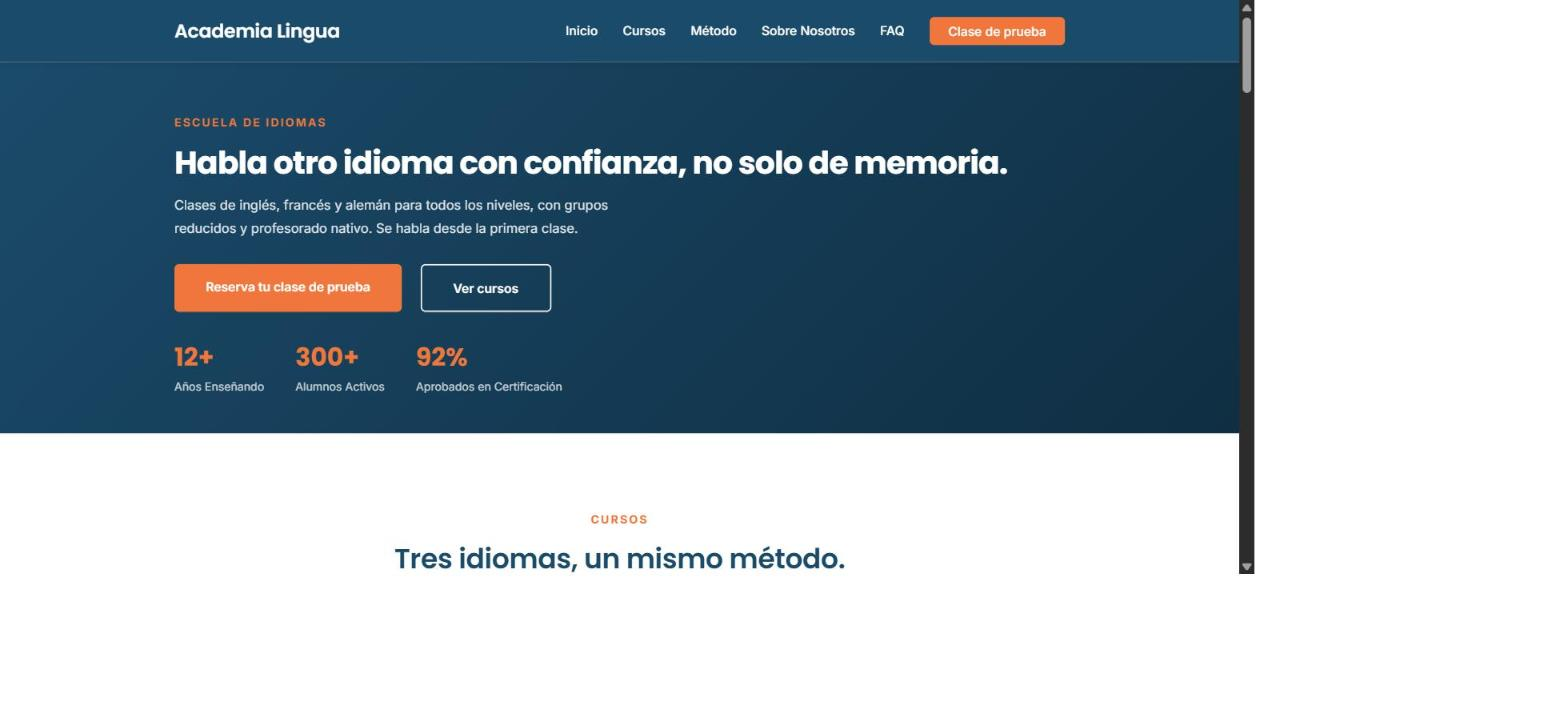
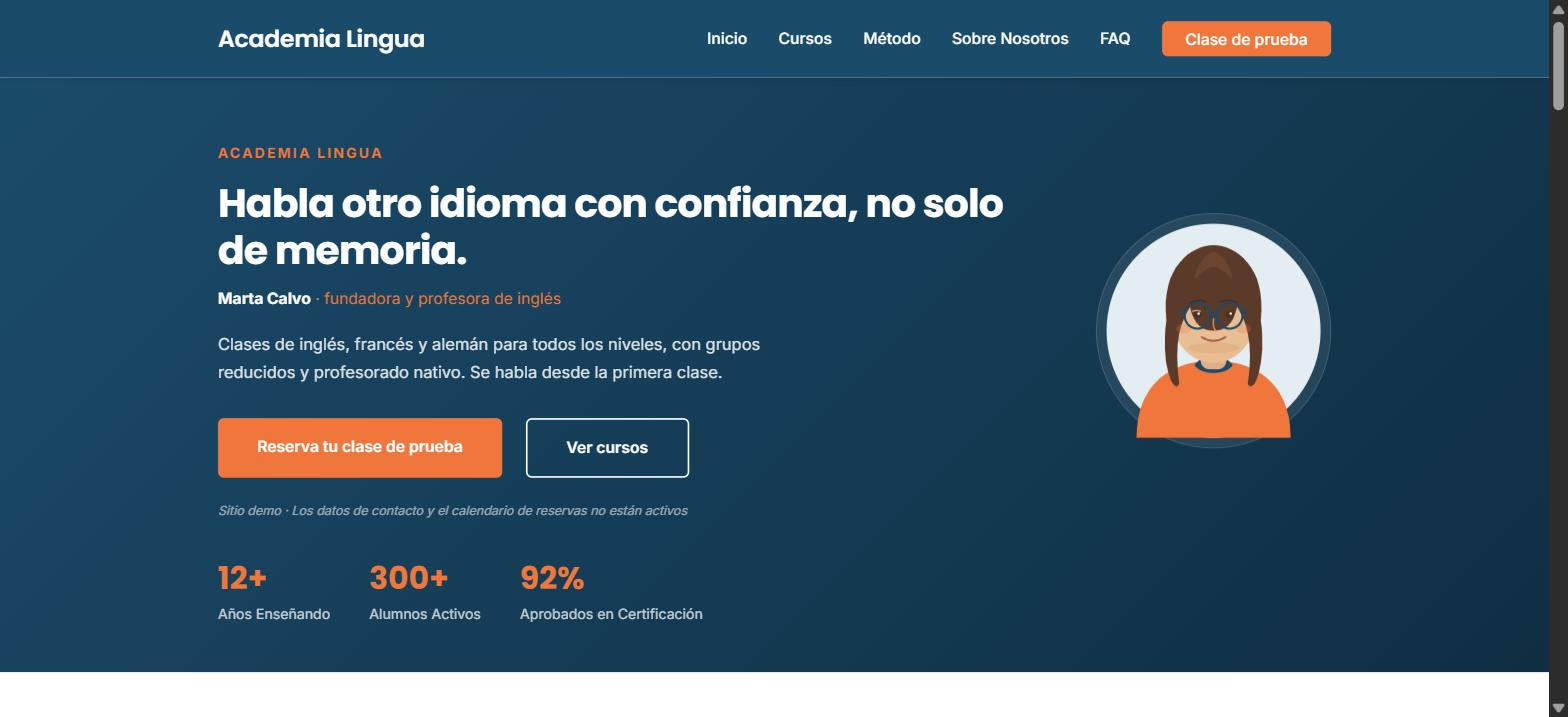
Actualizar miniaturas de Academia Lingua tras el rediseño
La demo ahora tiene una fundadora con nombre y cara (avatar
ilustrado), así que las capturas del portfolio se actualizan para
reflejar el hero y el "Sobre nosotros" rediseñados.

diff --git a/src/components/Projects.jsx b/src/components/Projects.jsx
@@ -70,7 +70,7 @@ const projects = [
     year: '2026',
     title: 'Academia Lingua',
     description:
-      'Sitio web completo para escuela de idiomas: presentación, cursos por idioma (inglés, francés, alemán) con formatos y niveles, método de trabajo, sobre nosotros, FAQ y formulario de reserva de clase de prueba. Paleta azul y coral con tipografía Poppins + Inter. Datos ficticios: el proyecto está listo para enseñar como demo.',
+      'Sitio web completo para escuela de idiomas: presentación con avatar ilustrado de la fundadora, cursos por idioma (inglés, francés, alemán) con formatos y niveles, método de trabajo, sobre nosotros en primera persona, FAQ y formulario de reserva de clase de prueba. Paleta azul y coral con tipografía Poppins + Inter. Datos ficticios: el proyecto está listo para enseñar como demo.',
     main: 'projects/academy-web-1.jpg',
     secondary: 'projects/academy-web-2.jpg',
     secondaryPos: 'br',
